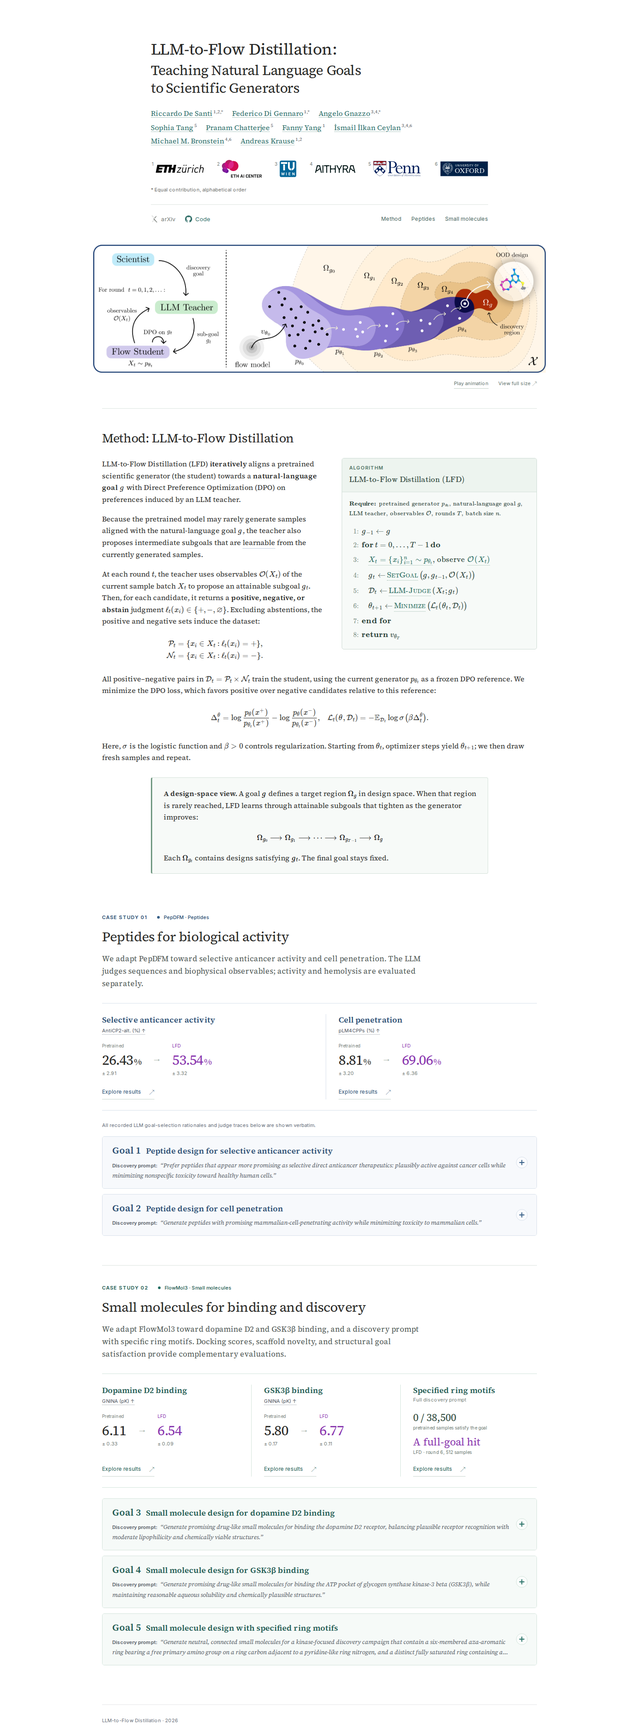
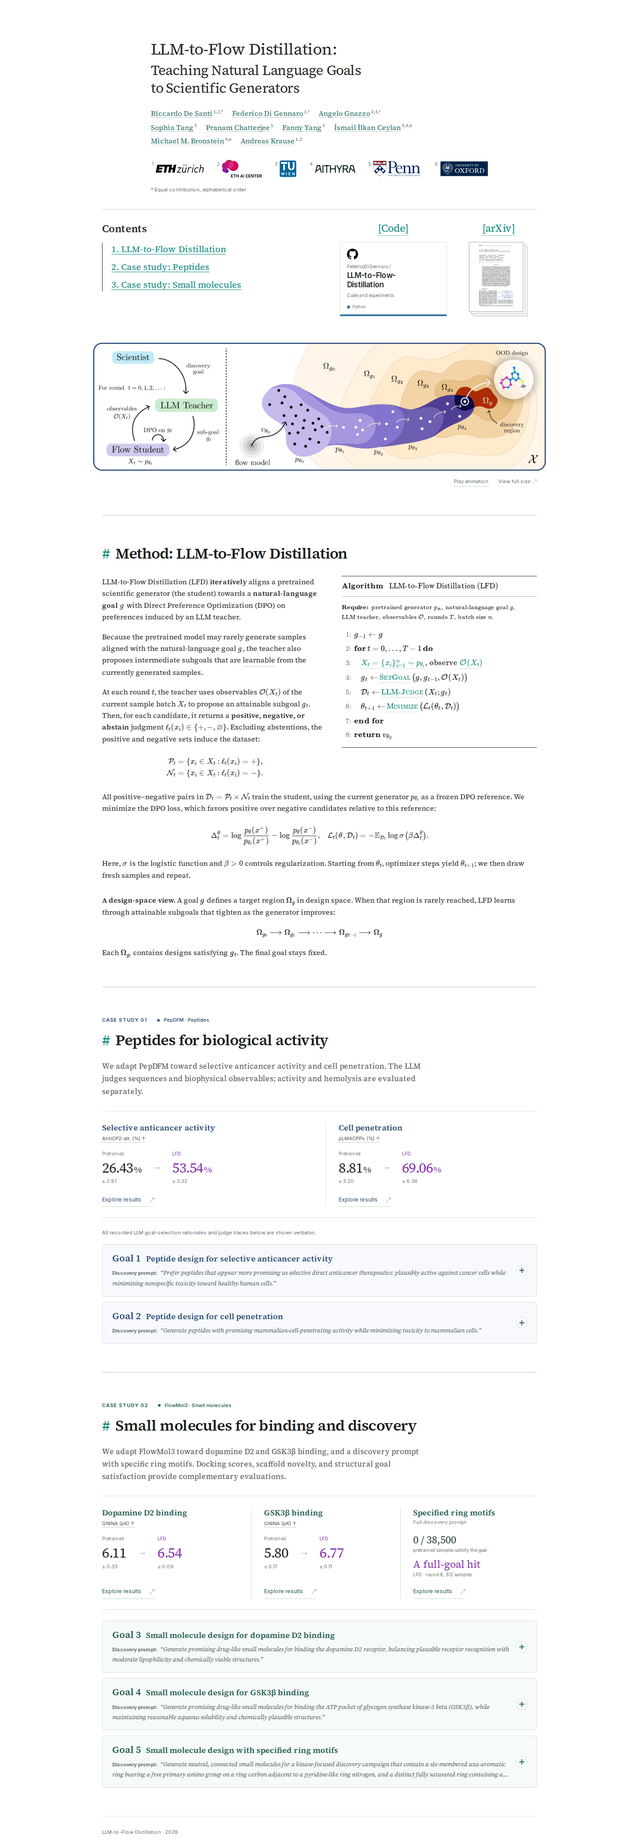
Clarify section hierarchy and contents with an unboxed method layout

Changed region(s): [[0.1562, 0.0, 0.875, 0.4995], [0.1562, 0.5307, 0.7812, 0.9678], [0.6875, 0.6868, 0.75, 0.718]]

diff --git a/site.css b/site.css
@@ -129,27 +129,27 @@ sup { margin-left: 2px; font-size: .65em; line-height: 0; }
 .hero-figure img, .hero-figure video { width: 100%; height: auto; }
 
 /* Scroll-aware contents rail; stays outside the reading column. */
-.contents-nav { position: fixed; z-index: 30; left: max(20px, calc((100vw - 980px) / 2 - 180px)); top: 50%; width: 148px; font-family: var(--sans); transform: translate(-8px, -50%); opacity: 0; visibility: hidden; pointer-events: none; transition: opacity .2s, transform .2s, visibility .2s; }
+.contents-nav { position: fixed; z-index: 30; left: max(20px, calc((100vw - 980px) / 2 - 180px)); top: 50%; width: 164px; font-family: var(--serif); transform: translate(-8px, -50%); opacity: 0; visibility: hidden; pointer-events: none; transition: opacity .2s, transform .2s, visibility .2s; }
 .contents-nav.is-visible { opacity: 1; visibility: visible; pointer-events: auto; transform: translate(0, -50%); }
 .contents-toggle { display: none; }
-.contents-list { list-style: none; margin: 0; padding: 0; position: relative; }
-.contents-list::before { content: ''; position: absolute; left: 7px; top: 22px; bottom: 22px; width: 1px; background: #e1e2e4; }
-.contents-list a { position: relative; display: flex; align-items: center; gap: 12px; min-height: 44px; color: #777c78; font-size: 12px; font-weight: 400; line-height: 1.4; transition: color .18s; }
-.contents-list a:hover { color: var(--ink); }
-.contents-dot { flex: 0 0 7px; height: 7px; border: 1px solid #bfc7c1; border-radius: 50%; background: #fff; margin-left: 4px; transition: background .18s, border-color .18s, box-shadow .18s; }
-.contents-list a[aria-current="location"] { color: var(--red); }
-.contents-list a[aria-current="location"] .contents-dot { background: var(--red); border-color: var(--red); box-shadow: 0 0 0 4px #e8f0ed; }
+.contents-heading { margin: 0 0 13px; font-size: 20px; font-weight: 600; }
+.contents-list { list-style: none; margin: 0; padding: 0 0 0 12px; position: relative; border-left: 1px solid #212d29; }
+.contents-list a { position: relative; display: flex; align-items: center; min-height: 42px; color: #07857d; font-size: 15px; font-weight: 400; line-height: 1.4; text-decoration: underline; text-decoration-thickness: 1px; text-underline-offset: 4px; text-decoration-color: #9ac9c3; transition: color .18s; }
+.contents-list a:hover { color: #00594f; text-decoration-color: currentColor; }
+.contents-list a[aria-current="location"] { color: #153f36; font-weight: 600; text-decoration-color: currentColor; }
+.contents-list a[aria-current="location"]::before { content: ''; position: absolute; left: -14px; top: 10px; bottom: 10px; width: 3px; background: #07857d; }
 @media (min-width: 1280px) {
   .wrap { width: min(980px, calc(100% - 400px)); }
 }
 @media (max-width: 1279px) {
   .contents-nav { top: auto; bottom: max(20px, env(safe-area-inset-bottom)); left: 20px; width: auto; transform: translateY(8px); }
   .contents-nav.is-visible { transform: translateY(0); }
+  .contents-heading { display: none; }
   .contents-toggle { display: flex; align-items: center; gap: 9px; min-height: 44px; padding: 11px 15px; border: 1px solid #dedfe2; border-radius: 24px; background: #fff; box-shadow: 0 3px 16px #2021240d; font-size: 12px; font-weight: 500; }
   .contents-toggle svg { width: 16px; height: 16px; fill: none; stroke: currentColor; stroke-width: 1.5; stroke-linecap: round; }
   .contents-current { color: var(--red); padding-left: 9px; border-left: 1px solid var(--line); }
   .contents-list { display: none; position: absolute; bottom: calc(100% + 10px); left: 0; width: 180px; padding: 12px 16px; background: #fff; border: 1px solid var(--line); border-radius: 12px; box-shadow: 0 8px 28px #20212414; }
-  .contents-list::before { left: 25px; top: 36px; bottom: 36px; }
+  .contents-list a[aria-current="location"]::before { left: -17px; }
   .contents-nav.is-open .contents-list { display: block; }
   footer.wrap { padding-bottom: 90px; }
 }
@@ -696,38 +696,41 @@ footer { padding-block: 26px; border-top: 1px solid var(--line); display: flex; 
 .institution-penn img { width: 109px; }
 .institution-oxford img { width: 108px; }
 .contribution-note { margin-top: 14px; }
-.hero-toolbar { display: flex; align-items: center; justify-content: space-between; gap: 18px; margin-top: 23px; padding-top: 14px; border-top: 1px solid #dce3df; }
 .hero-actions { margin: 0; }
-.hero-jumps { display: flex; flex-wrap: wrap; align-items: center; gap: 22px; font: 12px/1.5 var(--sans); color: #45625b; }
-.hero-jumps a:hover { text-decoration: underline; text-underline-offset: 4px; }
 .hero-figure { width: calc(100% + 40px); margin: 40px -20px 0; }
 .overview-controls { display: flex; justify-content: flex-end; gap: 22px; margin: 14px 20px 0; font: 11px/1.5 var(--sans); color: #63736d; }
 .overview-controls button { border: 0; border-bottom: 1px solid #c2cfc7; padding: 2px 0; color: inherit; background: none; font: inherit; }
 .overview-controls a { padding: 2px 0; }
 .overview-controls a:hover { text-decoration: underline; text-underline-offset: 3px; }
 
-/* Method: a compact algorithm in the margin, continuous reading text below. */
-.method-band { background: #fff; margin-top: 44px; }
-.method-section { border-top: 1px solid #dce3df; padding-block: 48px 22px; }
-.algorithm-box { background: #f7faf8; border-color: #cedbd4; color: #263c34; border-radius: 5px; }
-.algorithm-box h3 { border-color: #d5e1da; background: #edf4ef; border-radius: 4px 4px 0 0; }
-.algorithm-box h3 > span:first-child { color: #537467; }
-.algorithm-row::before { color: #7f9388; }
-.algorithm-row:nth-child(n+3):nth-child(-n+6) { padding-block: 3px; }
-.algorithm-function { color: #286b60; border-bottom-color: #94b4a6; }
-.algorithm-function:hover, .algorithm-function[aria-expanded="true"] { color: #123e32; }
-.method-curriculum { background: #f7faf8; border: 1px solid #d4e1d9; border-left: 3px solid #709881; border-radius: 4px; box-shadow: none; }
+/* The method reads as an article; only the algorithm uses academic rules. */
+.method-band { background: #fff; margin-top: 64px; }
+.method-section { border-top: 1px solid #b9c8c4; padding-block: 64px 0; }
+.method-section > .section-heading { text-wrap: initial; }
+.section-heading, .case-study h3.section-heading { display: flex; align-items: baseline; gap: 13px; margin: 0 0 26px; font-size: 34px; font-weight: 600; line-height: 1.25; letter-spacing: -.55px; color: #171b19; }
+.section-anchor { flex-shrink: 0; color: #07857d; font-weight: 400; text-decoration: none; }
+.section-anchor:hover { color: #00594f; }
+.method-layout { margin-top: 30px; }
+.algorithm-box { padding: 0 0 12px; border: 0; border-block: 1.5px solid #29332f; border-radius: 0; background: transparent; color: #111; }
+.algorithm-box h3 { display: flex; flex-wrap: wrap; align-items: baseline; gap: 4px 12px; margin: 0; padding: 10px 0; border: 0; border-bottom: 1px solid #a9b1ac; border-radius: 0; background: transparent; font-size: 17px; line-height: 1.45; }
+.algorithm-box h3 > span:first-child { color: #111; font: 700 17px/1.45 KaTeX_Main, 'Times New Roman', serif; letter-spacing: 0; text-transform: none; }
+.algorithm-inputs { margin-block: 13px; }
+.algorithm-row::before { color: #777e78; }
+.algorithm-row:nth-child(n+3):nth-child(-n+6) { padding-block: 2px; }
+.algorithm-function { color: #07857d; border-bottom-color: #8bbcb5; }
+.algorithm-function:hover, .algorithm-function[aria-expanded="true"] { color: #00594f; }
+.method-curriculum { width: 100%; margin-top: 30px; padding: 0; border: 0; border-radius: 0; background: transparent; box-shadow: none; }
 
 /* Two case studies: results first, then the complete discovery experiments. */
-.results-section { padding-top: 26px; }
+.results-section { padding-top: 64px; padding-bottom: 0; }
 .case-studies { display: block; }
-.case-study { padding: 40px 0 34px; scroll-margin-top: 30px; }
-.case-study + .case-study { margin-top: 32px; border-top: 1px solid #dce3df; }
-.case-study-heading { max-width: 760px; }
+.case-study { padding: 64px 0; border-top: 1px solid #b9c8c4; scroll-margin-top: 30px; }
+.case-study + .case-study { margin-top: 0; }
+.case-study-heading { max-width: none; }
 .case-eyebrow { display: flex; flex-wrap: wrap; align-items: center; gap: 10px 22px; margin: 0 0 13px; font: 11px/1.5 var(--sans); color: var(--goal-strong); }
 .case-eyebrow > span:first-child { font-weight: 600; text-transform: uppercase; letter-spacing: .1em; }
 .case-eyebrow .generator-label { gap: 6px; font-size: 11px; }
-.case-study h3[id] { margin: 0 0 16px; font-size: 30px; line-height: 1.3; font-weight: 400; letter-spacing: -.4px; }
+.case-study h3.section-heading { margin-bottom: 24px; }
 .case-description { max-width: 730px; margin: 0; font-size: 17px; line-height: 1.65; color: #4a534f; }
 .case-results-summary { display: grid; grid-template-columns: repeat(2,minmax(0,1fr)); gap: 28px; margin: 30px 0 24px; padding: 24px 0; border-block: 1px solid var(--goal-border); }
 #molecules .case-results-summary { grid-template-columns: repeat(3,minmax(0,1fr)); }
@@ -791,11 +794,11 @@ footer { padding-block: 26px; border-top: 1px solid var(--line); display: flex; 
   .institution { justify-content: flex-start; }
   .institution img { max-width: calc(100% - 12px); }
   .institution-tu img { width: 38px; }
-  .hero-toolbar { flex-wrap: wrap; gap: 10px 20px; }
-  .hero-jumps { gap: 18px; }
-  .method-band { margin-top: 32px; }
-  .case-study { padding-block: 32px 20px; }
-  .case-study h3[id] { font-size: 27px; }
+  .method-band { margin-top: 48px; }
+  .method-section, .case-study { padding-top: 42px; }
+  .case-study { padding-bottom: 42px; }
+  .results-section { padding-top: 42px; }
+  .section-heading, .case-study h3.section-heading { font-size: 28px; gap: 9px; }
   .case-description { font-size: 16px; }
   .case-results-summary, #molecules .case-results-summary { grid-template-columns: repeat(2,minmax(0,1fr)); gap: 24px; }
   .discovery-snapshot { grid-column: 1 / -1; border-left: 0 !important; border-top: 1px solid var(--goal-border); padding: 22px 0 0 !important; }
@@ -817,4 +820,48 @@ footer { padding-block: 26px; border-top: 1px solid var(--line); display: flex; 
   .goal-prompt { font-size: 14px; }
   #figure-viewer { width: calc(100vw - 24px); padding: 16px; }
   #figure-viewer-title { font-size: 16px; }
+}
+
+/* A visible contents list and resource previews, following the reading order. */
+.project-directory { display: grid; grid-template-columns: minmax(0,1.12fr) minmax(0,1fr); gap: 38px; align-items: start; margin-top: 34px; padding: 28px 0 20px; border-top: 1px solid #c7cfcb; }
+.project-contents h2 { margin: 0 0 15px; font-size: 23px; font-weight: 600; letter-spacing: 0; }
+.project-contents ol { list-style: none; margin: 0; padding-left: 20px; border-left: 1px solid #18241e; }
+.project-contents li + li { margin-top: 10px; }
+.project-contents a { display: inline-block; color: #07857d; font-size: 20px; line-height: 1.5; text-decoration: underline; text-underline-offset: 4px; text-decoration-thickness: 1px; }
+.project-contents a:hover { color: #00594f; }
+.project-resources { display: grid; grid-template-columns: minmax(0,1.4fr) minmax(0,1fr); align-items: start; gap: 30px; }
+.resource-preview { display: flex; flex-direction: column; align-items: center; gap: 14px; padding: 0; color: #07857d; background: transparent; }
+.resource-preview .resource-label { font: 23px/1.3 var(--serif); border-bottom: 1px dotted currentColor; }
+.resource-preview:not(:disabled):hover { text-decoration: none; }
+.resource-preview:not(:disabled):hover .resource-label { color: #00594f; border-bottom-style: solid; }
+.resource-preview:disabled { color: #07857d; }
+.repository-preview { display: flex; flex-direction: column; align-items: flex-start; width: 100%; min-height: 161px; padding: 14px 15px 10px; border: 1px solid #e1e4e1; border-bottom: 4px solid #3876a4; color: #252d28; text-align: left; background: #fff; box-shadow: 0 2px 8px #24302606; }
+.repository-preview img { margin-bottom: 8px; }
+.repository-owner { color: #69756e; font: 10px/1.4 var(--sans); }
+.repository-preview strong { font: 600 17px/1.25 var(--sans); letter-spacing: -.3px; margin: 3px 0 6px; }
+.repository-caption { color: #6d766f; font: 10px/1.5 var(--sans); }
+.repository-language { display: flex; align-items: center; gap: 5px; margin-top: 12px; font: 9px/1.4 var(--sans); color: #647069; }
+.repository-language i { width: 7px; height: 7px; border-radius: 50%; background: #3876a4; }
+.paper-preview { position: relative; isolation: isolate; display: block; width: min(122px,100% - 16px); margin-right: 12px; }
+.paper-preview::before, .paper-preview::after { content: ''; position: absolute; z-index: -1; inset: 0; border: 1px solid #b9bfba; background: #fff; box-shadow: 0 1px 3px #24302616; }
+.paper-preview::before { transform: translate(10px,10px); }
+.paper-preview::after { transform: translate(5px,5px); }
+.paper-preview img { display: block; width: 100%; height: auto; border: 1px solid #aeb7b0; box-shadow: 0 1px 4px #24302626; }
+@media (max-width: 900px) {
+  .affiliations { display: grid; grid-template-columns: repeat(3,minmax(0,1fr)); gap: 12px 24px; }
+  .project-directory { grid-template-columns: minmax(0,1fr) minmax(0,.9fr); gap: 24px; }
+  .project-resources { gap: 20px; }
+  .project-contents a { font-size: 18px; }
+  .repository-preview { padding: 12px 10px; }
+  .repository-preview strong { font-size: 14px; }
+  .repository-owner { font-size: 9px; }
+}
+@media (max-width: 680px) {
+  .project-directory { grid-template-columns: minmax(0,1fr); gap: 28px; padding-top: 24px; }
+  .project-contents h2 { font-size: 22px; }
+  .project-contents a { font-size: 19px; }
+  .project-resources { grid-template-columns: minmax(0,1.3fr) minmax(0,1fr); gap: 28px; max-width: 380px; width: 100%; }
+  .resource-preview .resource-label { font-size: 22px; }
+  .repository-preview strong { font-size: 16px; }
+  .repository-owner { font-size: 10px; }
 }

diff --git a/index.html b/index.html
@@ -16,22 +16,23 @@
   <link rel="preload" href="assets/fonts/source-serif-4-normal-latin.woff2" as="font" type="font/woff2" crossorigin>
   <link rel="preload" href="assets/fonts/inter-latin.woff2" as="font" type="font/woff2" crossorigin>
   <link rel="stylesheet" href="assets/katex/katex.min.css?v=f76ac5391ddb">
-  <link rel="stylesheet" href="site.css?v=2264bc47ebfe">
+  <link rel="stylesheet" href="site.css?v=5921a4ae9dc1">
   <script src="assets/katex/katex.min.js?v=608ba6519084" defer></script>
   <script src="data/site-data.js?v=c85c081292ee" defer></script>
   <script src="assets/plotly/plotly-basic.min.js?v=99784e3abfb0" defer></script>
-  <script src="results.js?v=dd6563e4751d" defer></script>
-  <script src="site.js?v=c890b3cacf5a" defer></script>
+  <script src="results.js?v=b1b13d96ac2e" defer></script>
+  <script src="site.js?v=898189fff616" defer></script>
 </head>
 <body>
   <a class="skip-link" href="#main">Skip to content</a>
   <nav id="contents" class="contents-nav" aria-label="Page contents" inert>
     <button class="contents-toggle" aria-expanded="false" aria-controls="contents-list"><svg viewBox="0 0 20 20" aria-hidden="true"><path d="M4 5h12M4 10h12M4 15h12"/></svg><span>Contents</span><span class="contents-current" aria-hidden="true">Overview</span></button>
+    <p class="contents-heading">Contents</p>
     <ol id="contents-list" class="contents-list">
-      <li><a href="#overview" aria-current="location"><span class="contents-dot" aria-hidden="true"></span><span>Overview</span></a></li>
-      <li><a href="#method"><span class="contents-dot" aria-hidden="true"></span><span>Method (LFD)</span></a></li>
-      <li><a href="#peptides"><span class="contents-dot" aria-hidden="true"></span><span>01 · Peptides</span></a></li>
-      <li><a href="#molecules"><span class="contents-dot" aria-hidden="true"></span><span>02 · Small molecules</span></a></li>
+      <li><a href="#overview" aria-current="location"><span>Overview</span></a></li>
+      <li><a href="#method"><span>1. Method</span></a></li>
+      <li><a href="#peptides"><span>2. Peptides</span></a></li>
+      <li><a href="#molecules"><span>3. Small molecules</span></a></li>
     </ol>
   </nav>
   <main id="main">
@@ -51,13 +52,32 @@
         </div>
         <p class="contribution-note">* Equal contribution, alphabetical order</p>
       </div>
-      <div class="hero-toolbar">
-      <div class="hero-actions">
-        <button class="resource-button paper-button" type="button" disabled aria-label="arXiv (link unavailable)"><svg class="resource-icon" fill="currentColor" aria-hidden="true" focusable="false" viewBox="0 0 24 24" xmlns="http://www.w3.org/2000/svg"><path d="M3.8423 0a1.0037 1.0037 0 0 0-.922.6078c-.1536.3687-.0438.6275.2938 1.1113l6.9185 8.3597-1.0223 1.1058a1.0393 1.0393 0 0 0 .003 1.4229l1.2292 1.3135-5.4391 6.4444c-.2803.299-.4538.823-.2971 1.1986a1.0253 1.0253 0 0 0 .9585.635.9133.9133 0 0 0 .6891-.3405l5.783-6.126 7.4902 8.0051a.8527.8527 0 0 0 .6835.2597.9575.9575 0 0 0 .8777-.6138c.1577-.377-.017-.7502-.306-1.1407l-7.0518-8.3418 1.0632-1.13a.9626.9626 0 0 0 .0089-1.3165L4.6336.4639s-.3733-.4535-.768-.463zm0 .272h.0166c.2179.0052.4874.2715.5644.3639l.005.006.0052.0055 10.169 10.9905a.6915.6915 0 0 1-.0072.945l-1.0666 1.133-1.4982-1.7724-8.5994-10.39c-.3286-.472-.352-.6183-.2592-.841a.7307.7307 0 0 1 .6704-.4401Zm14.341 1.5701a.877.877 0 0 0-.6554.2418l-5.6962 6.1584 1.6944 1.8319 5.3089-6.5138c.3251-.4335.479-.6603.3247-1.0292a1.1205 1.1205 0 0 0-.9763-.689zm-7.6557 12.2823 1.3186 1.4135-5.7864 6.1295a.6494.6494 0 0 1-.4959.26.7516.7516 0 0 1-.706-.4669c-.1119-.2682.0359-.6864.2442-.9083l.0051-.0055.0047-.0055z"/></svg><span>arXiv</span></button>
-        <a class="resource-button code-button" href="https://github.com/FedericoDiGennaro/LLM-to-Flow-Distillation" target="_blank" rel="noopener" aria-label="Code on GitHub"><svg class="resource-icon" fill="currentColor" aria-hidden="true" focusable="false" xmlns="http://www.w3.org/2000/svg" viewBox="0 0 16 16"><path d="M6.766 11.328c-2.063-.25-3.516-1.734-3.516-3.656 0-.781.281-1.625.75-2.188-.203-.515-.172-1.609.063-2.062.625-.078 1.468.25 1.968.703.594-.187 1.219-.281 1.985-.281.765 0 1.39.094 1.953.265.484-.437 1.344-.765 1.969-.687.218.422.25 1.515.046 2.047.5.593.766 1.39.766 2.203 0 1.922-1.453 3.375-3.547 3.64.531.344.89 1.094.89 1.954v1.625c0 .468.391.734.86.547C13.781 14.359 16 11.53 16 8.03 16 3.61 12.406 0 7.984 0 3.563 0 0 3.61 0 8.031a7.88 7.88 0 0 0 5.172 7.422c.422.156.828-.125.828-.547v-1.25c-.219.094-.5.156-.75.156-1.031 0-1.64-.562-2.078-1.609-.172-.422-.36-.672-.719-.719-.187-.015-.25-.093-.25-.187 0-.188.313-.328.625-.328.453 0 .844.281 1.25.86.313.452.64.655 1.031.655s.641-.14 1-.5c.266-.265.47-.5.657-.656"/></svg><span>Code</span></a>
       </div>
-      <nav class="hero-jumps" aria-label="Explore the project"><a href="#method">Method</a><a href="#peptides">Peptides</a><a href="#molecules">Small molecules</a></nav>
-      </div>
+      <div class="project-directory">
+        <nav class="project-contents" aria-labelledby="project-contents-title">
+          <h2 id="project-contents-title">Contents</h2>
+          <ol>
+            <li><a href="#method">1. LLM-to-Flow Distillation</a></li>
+            <li><a href="#peptides">2. Case study: Peptides</a></li>
+            <li><a href="#molecules">3. Case study: Small molecules</a></li>
+          </ol>
+        </nav>
+        <div class="project-resources">
+          <a class="resource-button code-button resource-preview" href="https://github.com/FedericoDiGennaro/LLM-to-Flow-Distillation" target="_blank" rel="noopener" aria-label="Code on GitHub">
+            <span class="resource-label">[Code]</span>
+            <span class="repository-preview" aria-hidden="true">
+              <img src="assets/icons/github.svg" alt="" width="25" height="25">
+              <span class="repository-owner">FedericoDiGennaro /</span>
+              <strong>LLM-to-Flow-<br>Distillation</strong>
+              <span class="repository-caption">Code and experiments</span>
+              <span class="repository-language"><i></i> Python</span>
+            </span>
+          </a>
+          <button class="resource-button paper-button resource-preview" type="button" disabled aria-label="arXiv (link unavailable)">
+            <span class="resource-label">[arXiv]</span>
+            <span class="paper-preview" aria-hidden="true"><img src="assets/previews/paper-first-page.png" alt="" width="553" height="715"></span>
+          </button>
+        </div>
       </div>
       <figure class="hero-figure">
         <a href="assets/flow_adaptation_smooth.mp4" target="_blank" rel="noopener" aria-label="Open the method overview at full resolution"><video autoplay muted loop playsinline preload="auto" width="2154" height="612" poster="assets/main_ltf.png" aria-label="LLM-to-Flow Distillation overview: a scientist gives a discovery goal to an LLM teacher, which sets subgoals and evaluates a flow student as its distribution moves toward the discovery region."><source src="assets/flow_adaptation_smooth.mp4" type="video/mp4"><img src="assets/main_ltf.png" width="4546" height="1285" alt="LLM-to-Flow Distillation overview: the teacher guides the flow student toward a discovery goal."></video></a>
@@ -67,7 +87,7 @@
 
     <div class="method-band">
     <section id="method" class="method-section wrap section-space" aria-labelledby="method-title">
-      <h2 id="method-title">Method: LLM-to-Flow Distillation</h2>
+      <h2 id="method-title" class="section-heading"><a class="section-anchor" href="#method" aria-label="Link to Method">#</a><span>Method: LLM-to-Flow Distillation</span></h2>
       <div class="method-layout">
         <div class="algorithm-box" aria-labelledby="algorithm-title">
           <h3 id="algorithm-title"><span>Algorithm</span><span class="algorithm-name">LLM-to-Flow Distillation (LFD)</span></h3>

diff --git a/results.js b/results.js
@@ -298,7 +298,7 @@
       const prompt=task.stages.find(stage=>stage.id==='g').exactGoal;
       return `<article class="goal-accordion" data-generator="${esc(goal.generator)}"><h3 class="goal-heading"><button type="button" id="result-card-${esc(goal.id)}" class="result-card" aria-expanded="false" aria-controls="goal-content-${esc(goal.id)}" aria-labelledby="result-number-${esc(goal.id)} result-name-${esc(goal.id)}" aria-describedby="goal-prompt-${esc(goal.id)}" data-result-task="${esc(goal.id)}" data-generator="${esc(goal.generator)}"><span class="goal-title-line"><span id="result-number-${esc(goal.id)}" class="goal-number">Goal ${goal.number}</span><span id="result-name-${esc(goal.id)}" class="result-task-name">${esc(goal.name)}</span></span><span id="goal-prompt-${esc(goal.id)}" class="goal-prompt goal-quotation"><strong>Discovery prompt:</strong> <q>${esc(prompt)}</q></span><span class="goal-card-state" aria-hidden="true"></span></button></h3><div id="goal-content-${esc(goal.id)}" class="goal-content" hidden></div></article>`;
     };
-    cards.innerHTML=caseStudies.map(study=>`<section id="${study.id}" class="case-study" data-generator="${study.generator}" aria-labelledby="case-title-${study.id}"><header class="case-study-heading"><p class="case-eyebrow"><span>Case study ${study.number}</span><span class="generator-label" data-generator="${study.generator}">${study.generator} · ${study.domain}</span></p><h3 id="case-title-${study.id}">${study.title}</h3><p class="case-description">${study.description}</p></header><div class="case-results-summary">${study.tasks.map(id=>resultSnapshot(id,results)).join('')}</div>${study.id==='peptides' ? '<p class="trace-verbatim-note">All recorded LLM goal-selection rationales and judge traces below are shown verbatim.</p>' : ''}<div class="goal-accordions">${goals.filter(goal=>study.tasks.includes(goal.id)).map(goalMarkup).join('')}</div></section>`).join('');
+    cards.innerHTML=caseStudies.map(study=>`<section id="${study.id}" class="case-study" data-generator="${study.generator}" aria-labelledby="case-title-${study.id}"><header class="case-study-heading"><p class="case-eyebrow"><span>Case study ${study.number}</span><span class="generator-label" data-generator="${study.generator}">${study.generator} · ${study.domain}</span></p><h3 id="case-title-${study.id}" class="section-heading"><a class="section-anchor" href="#${study.id}" aria-label="Link to ${study.domain.toLowerCase()} case study">#</a><span>${study.title}</span></h3><p class="case-description">${study.description}</p></header><div class="case-results-summary">${study.tasks.map(id=>resultSnapshot(id,results)).join('')}</div>${study.id==='peptides' ? '<p class="trace-verbatim-note">All recorded LLM goal-selection rationales and judge traces below are shown verbatim.</p>' : ''}<div class="goal-accordions">${goals.filter(goal=>study.tasks.includes(goal.id)).map(goalMarkup).join('')}</div></section>`).join('');
     function closeGoal() {
       closeMetricHelp();
       ++generation;

diff --git a/site.js b/site.js
@@ -354,7 +354,7 @@
     const open = contents.classList.toggle('is-open');
     contentsToggle.setAttribute('aria-expanded', String(open));
   });
-  for (const link of contentsLinks) {
+  for (const link of [...contentsLinks, ...$$('.project-contents a, .section-anchor')]) {
     link.addEventListener('click', event => {
       // Preserve normal new-tab and modified-click behavior on these real anchors.
       if (event.button !== 0 || event.metaKey || event.ctrlKey || event.shiftKey || event.altKey) return;

diff --git a/scripts/check_browser.py b/scripts/check_browser.py
@@ -31,7 +31,7 @@ def main():
         assert page.locator('a[href*="paper.pdf"], #citation').count() == 0
         expect(page.locator('button.paper-button')).to_be_disabled()
         assert page.locator('.paper-button').get_attribute('href') is None
-        expect(page.locator('.paper-button')).to_have_text('arXiv')
+        expect(page.locator('.paper-button')).to_have_text('[arXiv]')
         expect(page.locator('.hero-figure video source')).to_have_attribute('src', 'assets/flow_adaptation_smooth.mp4')
         expect(page.locator('.hero-figure video')).to_have_js_property('videoWidth', 2154)
         expect(page.locator('.hero-figure video')).to_have_js_property('videoHeight', 612)
@@ -54,7 +54,19 @@ def main():
             expect(page.locator('.contents-list a[aria-current]')).to_have_attribute('href', '#' + section)
         page.evaluate('window.scrollTo({top: 0, behavior: "instant"})')
         expect(page.locator('#contents')).not_to_be_visible()
-        print('Compact hero, uploaded figure, clickable contents, section tracking and focus passed.')
+        # The visible directory and heading permalinks share keyboard/focus behavior with the rail.
+        assert page.locator('.project-contents a').count() == 3
+        expect(page.locator('.paper-preview img')).to_have_js_property('complete', True)
+        assert page.locator('.paper-preview img').evaluate('(el)=>el.naturalWidth>0')
+        expect(page.locator('.code-button')).to_have_attribute('href', 'https://github.com/FedericoDiGennaro/LLM-to-Flow-Distillation')
+        for section in ['method', 'peptides', 'molecules']:
+            page.locator(f'.project-contents a[href="#{section}"]').focus()
+            page.keyboard.press('Enter')
+            expect(page.locator('.contents-list a[aria-current]')).to_have_attribute('href', '#' + section)
+            assert page.evaluate('document.activeElement.closest("section").id') == section
+            page.locator(f'.section-anchor[href="#{section}"]').click()
+            assert page.evaluate('location.hash') == '#' + section
+        print('Hero, resource previews, numbered contents, heading permalinks, section tracking and focus passed.')
         for task in data['tasks']:
             page.locator(f'[data-result-task="{task["id"]}"]').click()
             assert page.locator(f'#result-name-{task["id"]}').inner_text() == task['name']
@@ -181,7 +193,7 @@ def main():
                 assert page.evaluate('document.documentElement.scrollWidth') <= width, f'{task["id"]} overflow at {width}px'
             if width < 1280:
                 page.locator('#method').evaluate('(el) => el.scrollIntoView({behavior: "instant"})')
-                expect(page.locator('.contents-current')).to_have_text('Method (LFD)')
+                expect(page.locator('.contents-current')).to_have_text('1. Method')
                 expect(page.locator('.contents-list')).not_to_be_visible()
                 page.locator('.contents-toggle').click()
                 expect(page.locator('.contents-toggle')).to_have_attribute('aria-expanded', 'true')
@@ -190,7 +202,7 @@ def main():
                 expect(page.locator('.contents-toggle')).to_be_focused()
                 page.locator('.contents-toggle').click()
                 page.locator('.contents-list a[href="#peptides"]').click()
-                expect(page.locator('.contents-current')).to_have_text('01 · Peptides')
+                expect(page.locator('.contents-current')).to_have_text('2. Peptides')
                 expect(page.locator('.contents-list')).not_to_be_visible()
                 assert page.evaluate('document.documentElement.scrollWidth') <= width
             if width in [390,1440]:

diff --git a/README.md b/README.md
@@ -4,7 +4,7 @@ An interactive research website for **LLM-to-Flow Distillation: Teaching Natural
 
 The site presents the method and two case studies: peptides (PepDFM) and small molecules (FlowMol3). Each case study leads with a compact, source-derived comparison of the main outcomes and direct links into the full interactive results. Five discovery experiments retain their recorded LLM feedback. Each full-width goal header opens three sections: LLM inputs with an expandable observable list, subgoals with immediately visible rationale/judge tabs, and expandable results. The 23 curriculum/assessment stages include 64 recorded candidates with two judge passes each, plus 28 explicitly marked placeholder slots. The goal wording, rationales, and uncertainties are verbatim; task/subgoal views support shareable URLs.
 
-The visual design follows the editorial typography and spacing of [CUES](https://www.sophielwang.com/cues): a left-aligned title and author block, a 760px header column, wider figures, restrained colors, and smaller headings. Self-hosted Source Serif 4 supplies the prose and headings; Inter keeps controls, tables, and plot labels compact. Verified author websites and six official institution logos make affiliations easy to explore. The algorithm and design-space summary use a muted sage palette; experiment disclosures retain light blue for PepDFM and light green for FlowMol3. The scroll-aware contents rail links directly to both case studies and becomes a compact menu on smaller screens.
+The visual design follows the editorial typography and spacing of [CUES](https://www.sophielwang.com/cues): a left-aligned title and author block, a 760px header column, wider figures, restrained colors, and prominent serif section headings. Self-hosted Source Serif 4 supplies the prose and headings; Inter keeps controls, tables, and plot labels compact. Verified author websites and six official institution logos make affiliations easy to explore. Prominent section headings use teal anchor links and clear horizontal breaks. A numbered contents list sits beside Code and arXiv previews, with a matching scroll-aware menu on the left. The method uses an unboxed academic layout with a ruled algorithm and a plain design-space paragraph; experiment disclosures retain light blue for PepDFM and light green for FlowMol3. The left contents menu links directly to both case studies and becomes a compact menu on smaller screens. The arXiv resource remains disabled until its URL is available; its thumbnail is rendered from the supplied preprint.
 
 Method prose wraps around the algorithm on desktop and stacks above it on mobile. Underlined operations open accessible hover, keyboard, or touch explanations. Equations use self-hosted KaTeX with MathML and readable text fallbacks. Both peptide tasks pair their tables with interactive activity–toxicity plots; docking tasks pair delta bar charts with molecular poses, and GSK3β also pairs its table with the scaffold-novelty plot. Docking error bars are black; scaffold intervals match the marker colors. Goal 5 compares zero pretrained hits in 38,500 samples with the reported LFD hit and structure. Metric definitions and citations are available from plot axes, table headings, and the result summaries. Molecular figures open in a keyboard-accessible enlarged viewer; the overview animation has play/pause controls and respects reduced-motion preferences.
 
